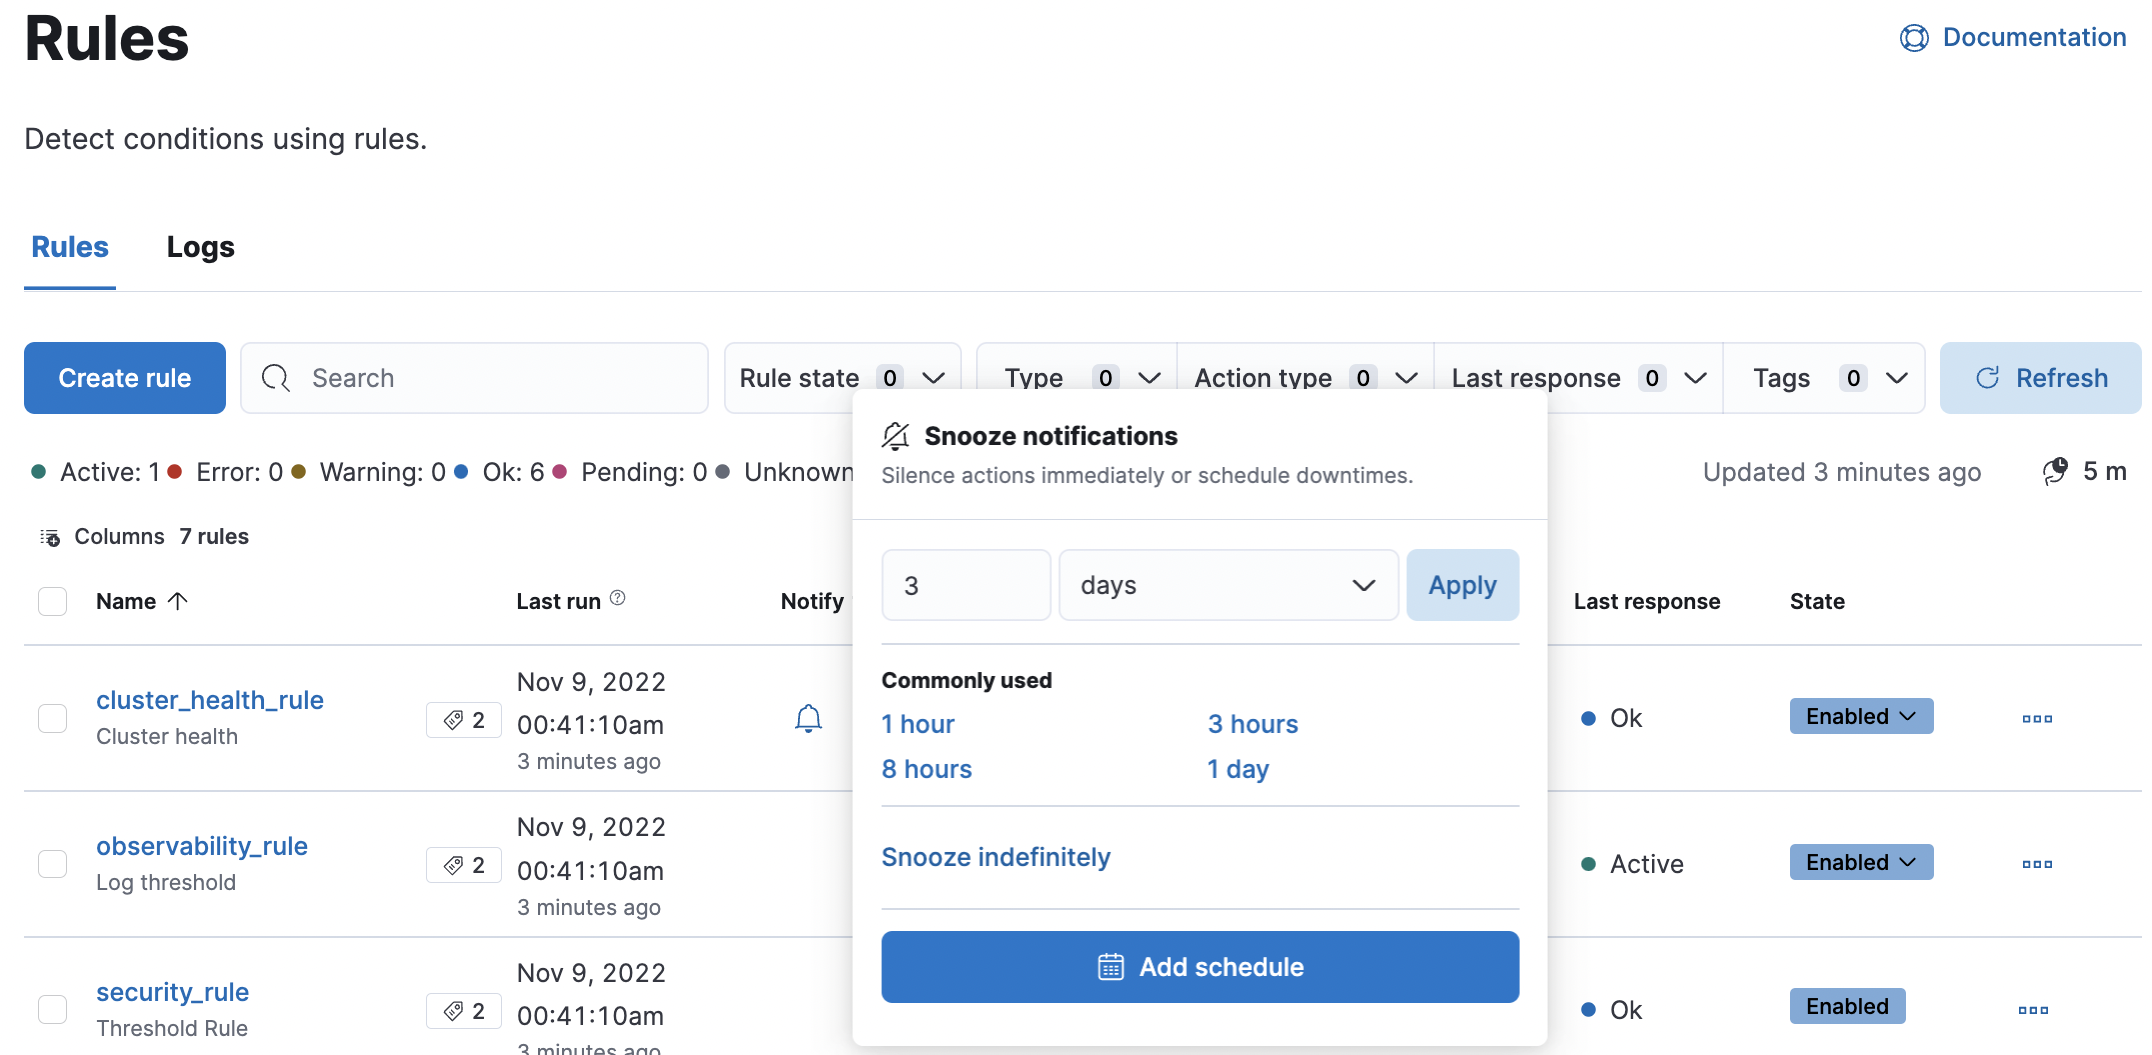
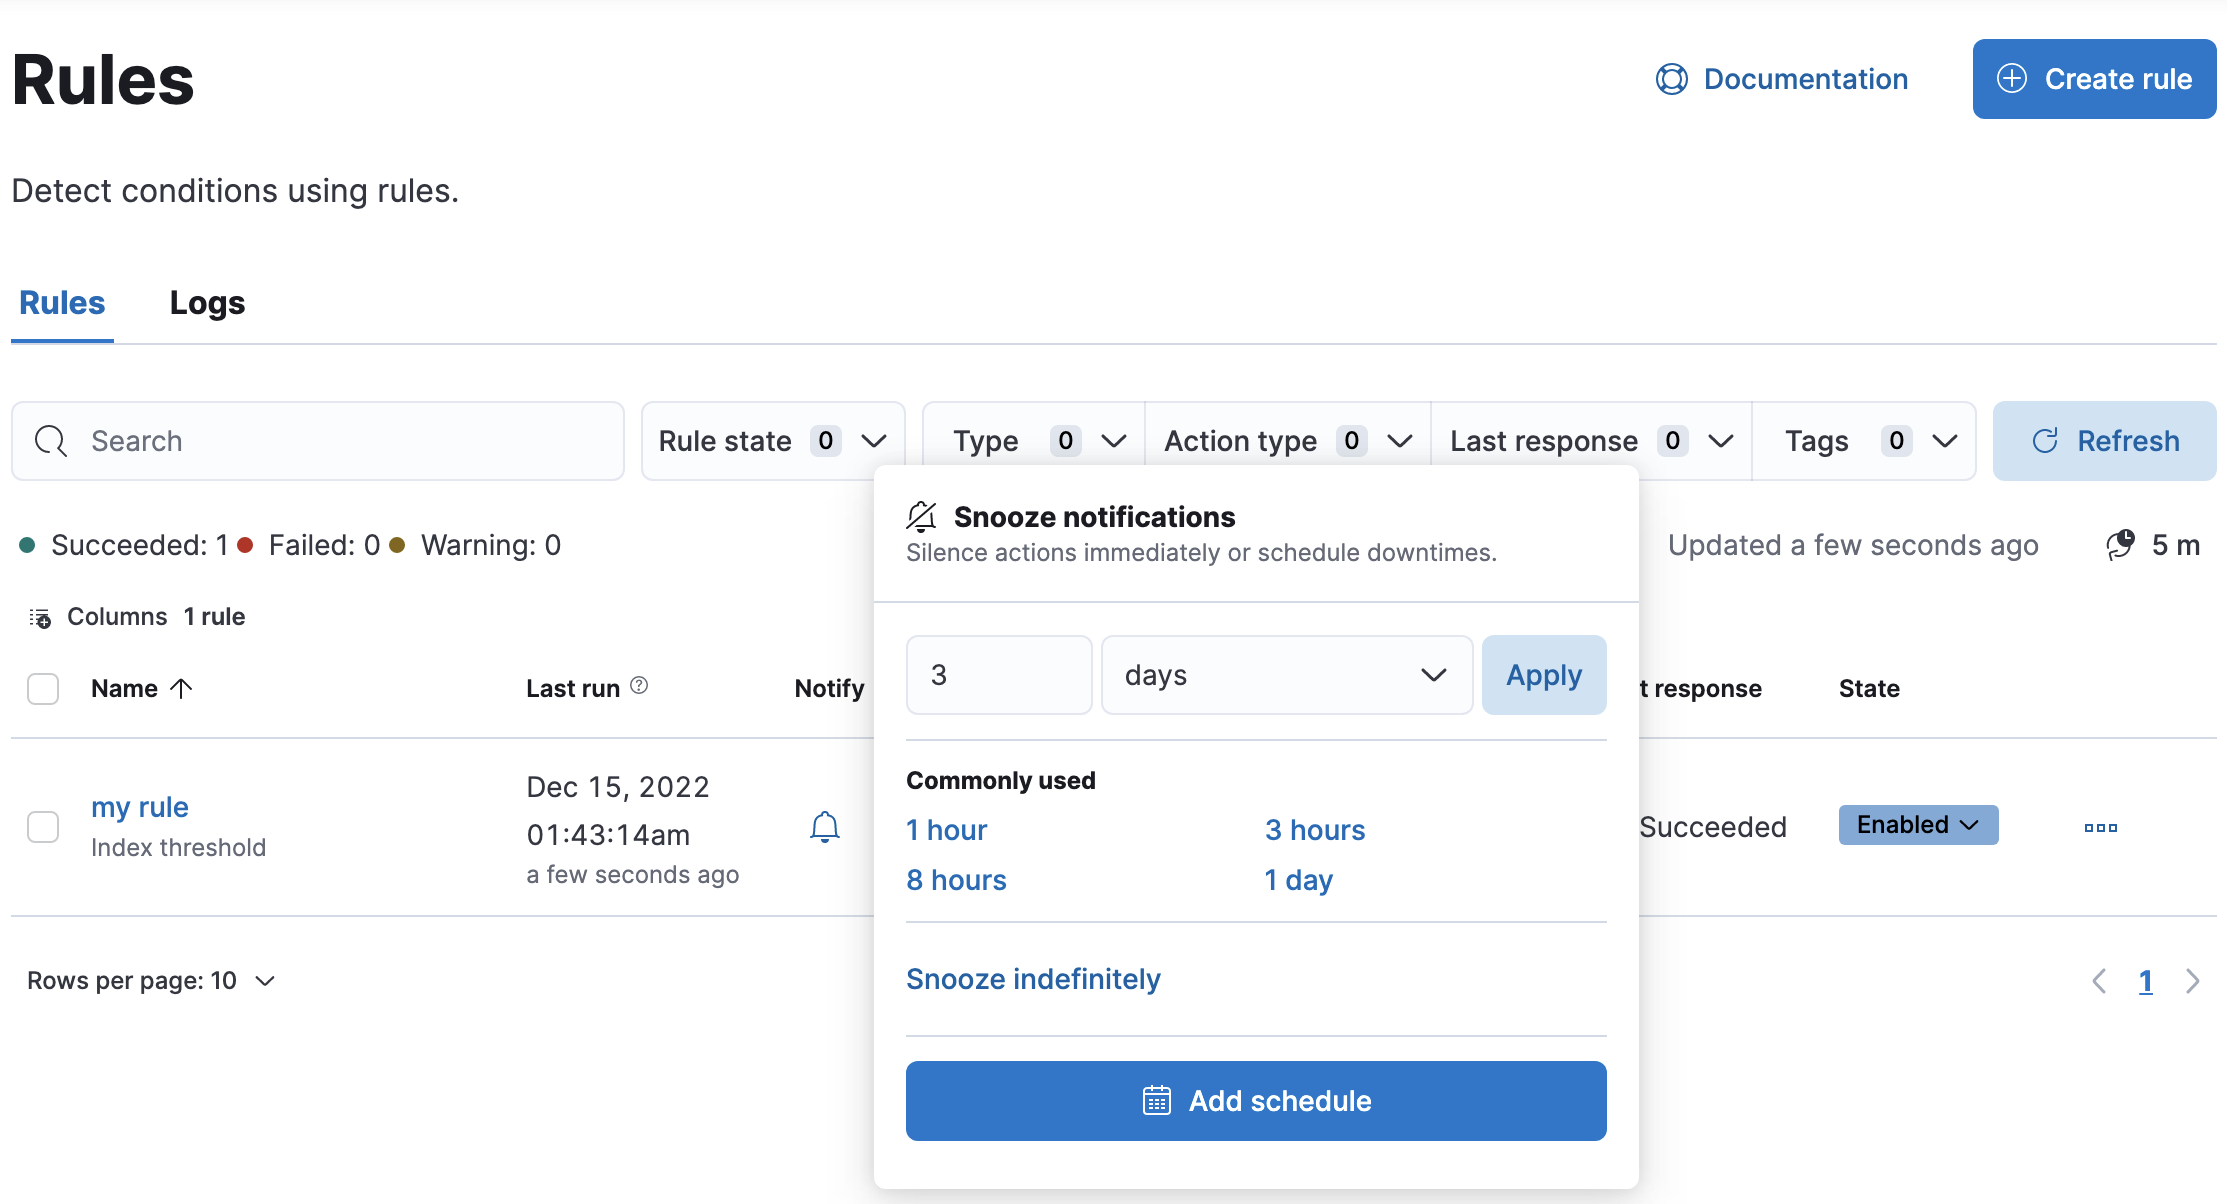
[ResponseOps] Automate screenshots for new rule statuses (#147492)

diff --git a/x-pack/test/screenshot_creation/apps/response_ops_docs/stack_alerting/list_view.ts b/x-pack/test/screenshot_creation/apps/response_ops_docs/stack_alerting/list_view.ts
@@ -12,17 +12,40 @@ export default function ({ getService, getPageObjects }: FtrProviderContext) {
   const screenshotDirectories = ['response_ops_docs', 'stack_alerting'];
   const pageObjects = getPageObjects(['common', 'header']);
   const actions = getService('actions');
+  const rules = getService('rules');
+  const testSubjects = getService('testSubjects');
 
   describe('list view', function () {
     let serverLogConnectorId: string;
+    let ruleId: string;
+    const indexThresholdRule = {
+      consumer: 'alerts',
+      name: 'my rule',
+      notifyWhen: 'onActionGroupChange',
+      params: {
+        index: ['.test-index'],
+        timeField: '@timestamp',
+        aggType: 'count',
+        groupBy: 'all',
+        timeWindowSize: 5,
+        timeWindowUnit: 'd',
+        thresholdComparator: '>',
+        threshold: [1000],
+      },
+      ruleTypeId: '.index-threshold',
+      schedule: { interval: '1m' },
+      tags: [],
+    };
 
     before(async () => {
       const connectorName = `server-log-connector`;
       ({ id: serverLogConnectorId } = await createServerLogConnector(connectorName));
+      ({ id: ruleId } = await rules.api.createRule(indexThresholdRule));
     });
 
     after(async () => {
       await actions.api.deleteConnector(serverLogConnectorId);
+      await rules.api.deleteRule(ruleId);
     });
 
     it('connectors list screenshot', async () => {
@@ -34,6 +57,34 @@ export default function ({ getService, getPageObjects }: FtrProviderContext) {
         1400,
         1024
       );
+    });
+
+    it('rules list screenshot', async () => {
+      await pageObjects.common.navigateToApp('triggersActions');
+      await pageObjects.header.waitUntilLoadingHasFinished();
+      await commonScreenshots.takeScreenshot('rules-ui', screenshotDirectories, 1400, 1024);
+    });
+
+    it('rule status screenshot', async () => {
+      await pageObjects.common.navigateToApp('triggersActions');
+      await pageObjects.header.waitUntilLoadingHasFinished();
+      const actionsDropdown = await testSubjects.find('statusDropdown');
+      await actionsDropdown.click();
+      await testSubjects.find('ruleStatusMenu');
+      await commonScreenshots.takeScreenshot(
+        'individual-enable-disable',
+        screenshotDirectories,
+        1400,
+        1024
+      );
+    });
+
+    it('rule snooze screenshot', async () => {
+      await pageObjects.common.navigateToApp('triggersActions');
+      await pageObjects.header.waitUntilLoadingHasFinished();
+      const snoozeBadge = await testSubjects.find('rulesListNotifyBadge-unsnoozed');
+      await snoozeBadge.click();
+      await commonScreenshots.takeScreenshot('snooze-panel', screenshotDirectories, 1400, 1024);
     });
   });
 

diff --git a/x-pack/test/functional/services/rules/api.ts b/x-pack/test/functional/services/rules/api.ts
@@ -1,0 +1,68 @@
+/*
+ * Copyright Elasticsearch B.V. and/or licensed to Elasticsearch B.V. under one
+ * or more contributor license agreements. Licensed under the Elastic License
+ * 2.0; you may not use this file except in compliance with the Elastic License
+ * 2.0.
+ */
+
+import { FtrProviderContext } from '../../ftr_provider_context';
+
+export function RulesAPIServiceProvider({ getService }: FtrProviderContext) {
+  const kbnSupertest = getService('supertest');
+  const log = getService('log');
+
+  return {
+    async createRule({
+      consumer,
+      name,
+      notifyWhen,
+      params,
+      ruleTypeId,
+      schedule,
+    }: {
+      consumer: string;
+      name: string;
+      notifyWhen: string;
+      params: Record<string, unknown>;
+      ruleTypeId: string;
+      schedule: Record<string, unknown>;
+    }) {
+      log.debug(`Create basic rule...`);
+      const { body: createdRule } = await kbnSupertest
+        .post(`/api/alerting/rule`)
+        .set('kbn-xsrf', 'foo')
+        .send({
+          consumer,
+          name,
+          notify_when: notifyWhen,
+          params,
+          rule_type_id: ruleTypeId,
+          schedule,
+        })
+        .expect(200);
+      return createdRule;
+    },
+
+    async deleteRule(id: string) {
+      log.debug(`Deleting rule with id '${id}'...`);
+      const rsp = kbnSupertest
+        .delete(`/api/alerting/rule/${id}`)
+        .set('kbn-xsrf', 'foo')
+        .expect(204, '');
+      log.debug('> Rule deleted.');
+      return rsp;
+    },
+
+    async deleteAllRules() {
+      log.debug(`Deleting all rules...`);
+      const { body } = await kbnSupertest
+        .get(`/api/alerting/rules/_find`)
+        .set('kbn-xsrf', 'foo')
+        .expect(200);
+
+      for (const rule of body) {
+        await this.deleteRule(rule.id);
+      }
+    },
+  };
+}

diff --git a/x-pack/test/functional/services/rules/index.ts b/x-pack/test/functional/services/rules/index.ts
@@ -7,9 +7,11 @@
 
 import { FtrProviderContext } from '../../ftr_provider_context';
 import { RulesCommonServiceProvider } from './common';
+import { RulesAPIServiceProvider } from './api';
 
 export function RulesServiceProvider(context: FtrProviderContext) {
   return {
+    api: RulesAPIServiceProvider(context),
     common: RulesCommonServiceProvider(context),
   };
 }
